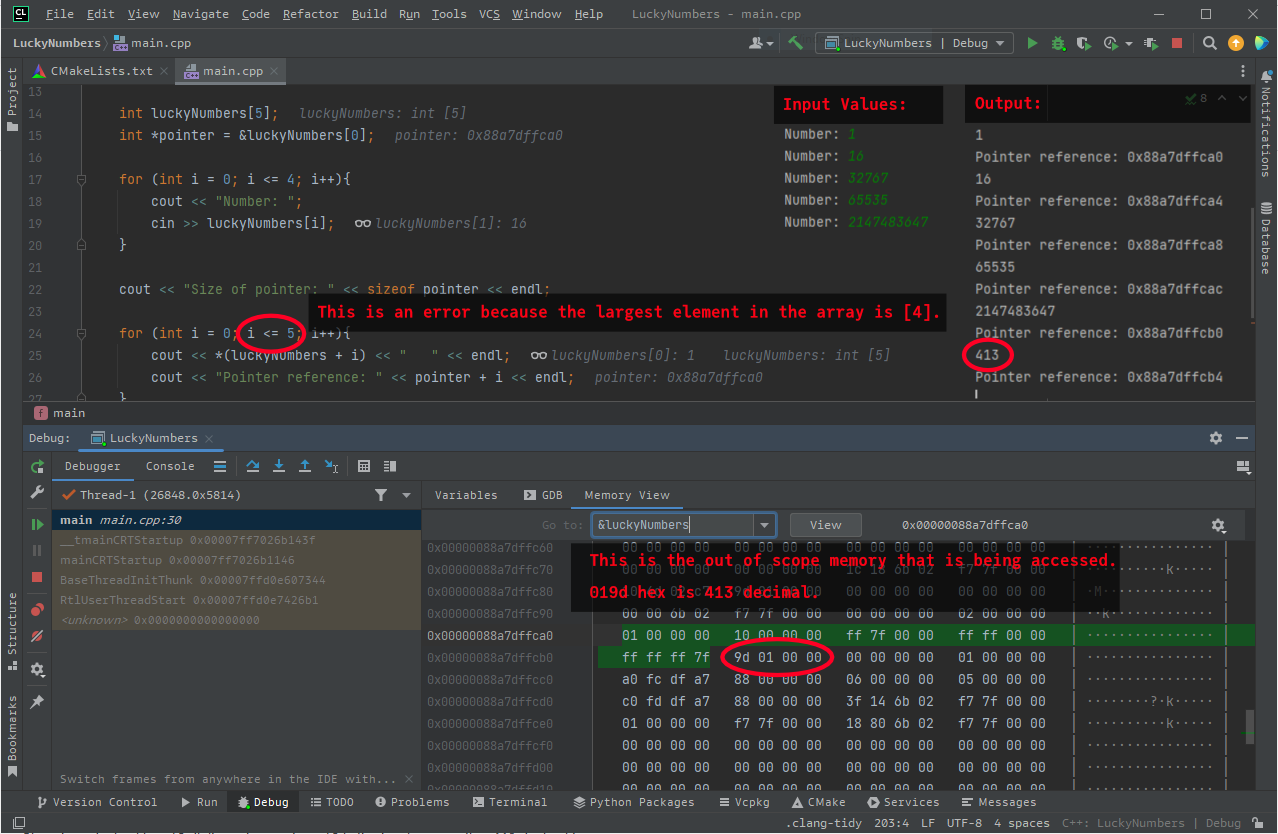
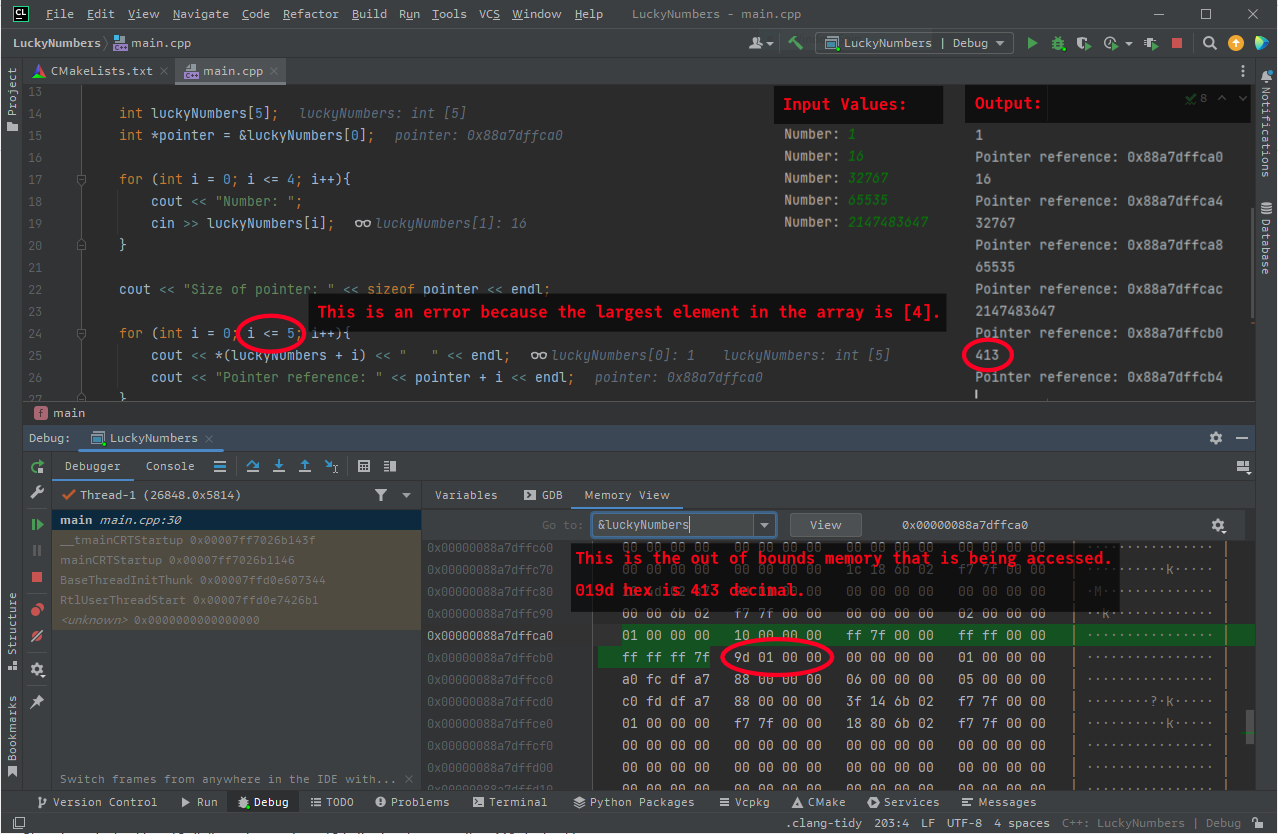
Added discussion 4

Changed region(s): [[0.4577, 0.6547, 0.885, 0.717]]

diff --git a/Discussion3/arrayPointers.cpp b/Discussion3/arrayPointers.cpp
@@ -1,0 +1,53 @@
+/*
+ * A simple C++ program that demonstrates pointers and arrays.
+ * Modified from another student's program from module 7
+ * in CSU Global's CSC300 Programming III course
+ * by Stephan Peters (speters33w).
+ */
+
+#include <iostream>
+#include <bits/stdc++.h>
+
+void printArray(int*, int);
+
+int main() {
+    int arr[5] = {1, 2, 3, 4, 5};
+    int *ptr = arr; // Pointing to the first element of the array
+
+    std::cout << "sizeof an int: "<< sizeof(int) << std::endl;
+    std::cout << "sizeof ptr: "<< sizeof ptr << std::endl;  // this may vary on different machines
+    std::cout << "sizeof arr: "<< sizeof arr / sizeof(int) << std::endl;
+
+    // Passing array to a function
+    printArray(ptr, sizeof(arr) / sizeof(int));
+
+    // Dynamic memory allocation
+    int dynArrSize = 3;
+    int *dynamicArray = new int[dynArrSize];
+    dynamicArray[0] = 10;
+    dynamicArray[1] = 20;
+    dynamicArray[2] = 30;
+
+    std::cout << "sizeof dynamicArray (pointer): "<< sizeof dynamicArray << std::endl << std::endl;
+
+    // Accessing array elements using pointer
+    for (int i = 0; i < dynArrSize; ++i) {
+        std::cout << "Element " << i << ": " << *(dynamicArray + i) << std::endl;
+//        *dynamicArray++;
+    }
+
+    // Overwrite memory with zeros
+    memset(ptr, 0, (sizeof(arr)));
+
+    memset(dynamicArray, 0, (sizeof(int) * dynArrSize));
+
+    return 0;
+}
+
+void printArray(int *arr, int size) {
+    std::cout << std::endl;
+    for (int i = 0; i < size; ++i) {
+        std::cout << "Element " << i << ": " << arr[i] << std::endl;
+    }
+    std::cout << std::endl;
+}

diff --git a/Discussion3/LuckyNumbers.cpp b/Discussion3/LuckyNumbers.cpp
@@ -1,5 +1,5 @@
 /*
- * A simple C++ program that demonstrates accessing memory beyond scope.
+ * A simple C++ program that demonstrates accessing out of bounds memory.
  * Modified from
  * C++ POINTERS (2020) - How to use pointers and arrays (for beginners)
  * https://www.youtube.com/watch?v=DsS-ZiYOWy4
@@ -7,7 +7,7 @@
 #include <iostream>
 using namespace std;
 
-int main() {
+int luckyNumbers() {
 
     // Create the array and pointer.
     int luckyNumbers[5];
@@ -32,8 +32,8 @@ int main() {
                     "but incorrectly access a memory location not in the array." << endl;
     for (int i = 0; i <= 5; i++){
         if (i == 5){
-            cout << "This value is from the memory space at " <<
-            pointer << " + 0x" << hex << sizeof pointer/2 * (i) << endl;
+            cout << "This value (hex) is from the memory space at " <<
+            pointer << " + 0x" << hex << sizeof(int) * (i) << endl;
         }
         cout << "Value: " << *(luckyNumbers + i) << endl;
         cout << "Pointer reference: " << pointer + i << endl;

diff --git a/Discussion4/fmtExample.cpp b/Discussion4/fmtExample.cpp
@@ -1,0 +1,30 @@
+#define FMT_HEADER_ONLY
+
+#include <regex>
+#include <fmt/color.h>
+
+using namespace fmt;
+
+int get_integer(const std::string& input);
+
+int main() {
+    int fortyTwo = get_integer("42");
+    print(fg(color::crimson) | emphasis::bold,
+          "The answer to life, {0}{1}!\n",
+          "the universe and everything is ",
+          fortyTwo);
+    print(fg(color::floral_white) | bg(color::slate_gray) | emphasis::underline,
+          "El sentido de la vida, {0}{1}!\n",
+                      " el universo y todo lo demás es ",
+                      fortyTwo);
+    fmt::print(fg(color::steel_blue) | emphasis::italic,
+               "生命、宇宙、{0}{1}\n",
+               "以及任何事情的終極答案是",
+               fortyTwo);
+}
+
+int get_integer(const std::string& input) {
+    int integer;
+    integer = stoi(regex_replace(input, std::regex(R"([^\-0-9.]+)"), ""));
+    return integer;
+}

diff --git a/CriticalThinking3/CSC450_CT3_integer_pointers.cpp b/CriticalThinking3/CSC450_CT3_integer_pointers.cpp
@@ -38,6 +38,7 @@ void show_pointers() {
     delete pointer_1;
     free(pointer_2);
     pointer_3 = nullptr;
+    delete pointer_3;
     /* Note: these methods only deallocate the memory and frees the pointer.
      * The value remains in memory until overwritten.
      * To wipe the memory, use  memset(pointer, 0, sizeof(*pointer)).
